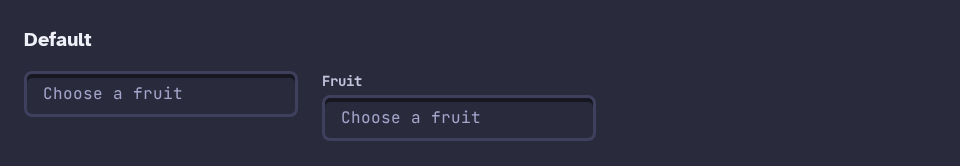
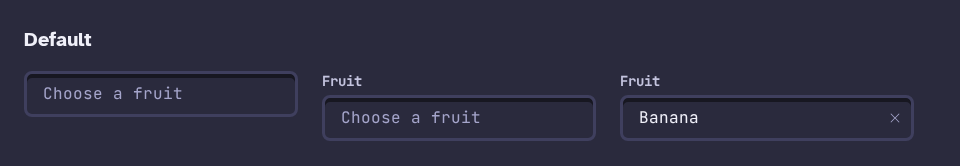
feat(ui): add clear button to AtCombobox
Clicking it resets modelValue back to empty via reka-ui's ComboboxCancel
primitive, which also owns resetting the internal search term/input display
and focusing the field back -- avoids re-deriving that behaviour by hand.

diff --git a/packages/ui/src/components/Combobox/AtCombobox.test.ts b/packages/ui/src/components/Combobox/AtCombobox.test.ts
@@ -1,7 +1,7 @@
 import { composeStories } from '@storybook/vue3-vite'
 import { render, screen } from '@testing-library/vue'
 import { userEvent } from 'vitest/browser'
-import { defineComponent, h, type PropType } from 'vue'
+import { defineComponent, h, type PropType, ref } from 'vue'
 import { expect, test } from 'vitest'
 import Combobox from './AtCombobox.vue'
 import * as stories from './AtCombobox.stories'
@@ -19,6 +19,26 @@ const WithSibling = defineComponent({
       h(Combobox, { options: props.options, 'aria-label': 'Fruit' }),
       h('button', 'Elsewhere'),
     ]),
+})
+
+// The clear button is gated on the component's own modelValue prop, not
+// reka-ui's internal (passive-mode) selection state -- exercising it needs a
+// real v-model round trip, unlike the other tests above which only assert on
+// emitted events or the DOM input's own display text.
+const WithModel = defineComponent({
+  props: {
+    options: { type: Array as PropType<{ value: string; label: string }[]>, required: true },
+  },
+  setup: (props) => {
+    const value = ref('')
+    return () =>
+      h(Combobox, {
+        options: props.options,
+        'aria-label': 'Fruit',
+        modelValue: value.value,
+        'onUpdate:modelValue': (v: string) => (value.value = v),
+      })
+  },
 })
 
 const { Snapshot } = composeStories(stories)
@@ -106,6 +126,33 @@ test('clicking the label opens the combobox', async () => {
   render(Combobox, { props: { options, label: 'Fruit' } })
   await userEvent.click(screen.getByText('Fruit'))
   expect(await screen.findByRole('option', { name: 'Banana' })).toBeInTheDocument()
+})
+
+// The clear (X) affordance only shows once a value is selected.
+test('does not show a clear button when no value is selected', () => {
+  render(Combobox, { props: { options }, attrs: { 'aria-label': 'Fruit' } })
+  expect(screen.queryByRole('button', { name: 'Clear' })).not.toBeInTheDocument()
+})
+
+test('shows a clear button once a value is selected', async () => {
+  render(WithModel, { props: { options } })
+  const input = screen.getByRole('combobox', { name: 'Fruit' })
+  await userEvent.click(input)
+  await userEvent.click(await screen.findByRole('option', { name: 'Banana' }))
+  expect(await screen.findByRole('button', { name: 'Clear' })).toBeInTheDocument()
+})
+
+// Clicking clear resets modelValue and the displayed text, closes the menu,
+// and does not leave a clear button behind (nothing selected any more).
+test('clicking clear resets modelValue and the input display', async () => {
+  render(WithModel, { props: { options } })
+  const input = screen.getByRole('combobox', { name: 'Fruit' })
+  await userEvent.click(input)
+  await userEvent.click(await screen.findByRole('option', { name: 'Banana' }))
+  await userEvent.click(await screen.findByRole('button', { name: 'Clear' }))
+  expect(input).toHaveValue('')
+  expect(screen.queryByRole('option', { name: 'Banana' })).not.toBeInTheDocument()
+  expect(screen.queryByRole('button', { name: 'Clear' })).not.toBeInTheDocument()
 })
 
 // The single visual snap for Combobox: the Snapshot story's board. Baseline:

diff --git a/packages/ui/src/components/Combobox/AtCombobox.vue b/packages/ui/src/components/Combobox/AtCombobox.vue
@@ -1,5 +1,7 @@
 <script setup lang="ts">
+import { PhX } from '@phosphor-icons/vue'
 import {
+  ComboboxCancel,
   ComboboxContent,
   ComboboxEmpty,
   ComboboxInput,
@@ -13,6 +15,7 @@ import type { Size } from '../../composables/useFieldChrome'
 import { useFieldChrome } from '../../composables/useFieldChrome'
 import { FIELD_SIZES } from '../../constants/fieldSizes'
 import FieldLabel from '../Field/FieldLabel.vue'
+import Icon from '../Icon/AtIcon.vue'
 
 const props = withDefaults(
   defineProps<{
@@ -51,6 +54,12 @@ const modelValue = computed({
 })
 
 const open = ref(false)
+
+// ComboboxCancel (reka-ui) already resets the internal search term and
+// input display -- we only need to clear our own v-model on top of it.
+const onClear = () => {
+  modelValue.value = ''
+}
 
 // ComboboxInput opens on pointerdown via open-on-click, not the native
 // label-for click-forwarding a <label> gives an <input> -- same gotcha
@@ -91,6 +100,15 @@ const itemPosition = (index: number, length: number) => [
 
 const displayValue = (value: unknown) =>
   props.options.find((option) => option.value === value)?.label ?? ''
+
+// The clear button occupies the same right-side slot AtSelect's caret sits
+// in -- reserve room in the input's own padding so typed text never runs
+// under it.
+const clearPadding: Record<Size, string> = {
+  sm: 'pr-8',
+  md: 'pr-9',
+  lg: 'pr-10',
+}
 </script>
 
 <template>
@@ -100,14 +118,24 @@ const displayValue = (value: unknown) =>
     }}</FieldLabel>
 
     <div ref="groupEl" class="flex items-stretch rounded-md">
-      <ComboboxRoot v-model="modelValue" v-model:open="open" class="flex-1" open-on-click>
+      <ComboboxRoot v-model="modelValue" v-model:open="open" class="relative flex-1" open-on-click>
         <ComboboxInput
           :id="fieldId"
           :display-value="displayValue"
           :placeholder="placeholder"
-          :class="[trigger, triggerClasses[size]]"
+          :class="[trigger, triggerClasses[size], modelValue && clearPadding[size]]"
           v-bind="$attrs"
         />
+
+        <ComboboxCancel
+          v-if="modelValue"
+          data-testid="combobox-clear"
+          aria-label="Clear"
+          class="absolute inset-y-0 right-0 flex items-center px-3 text-fg-subtle outline-none hover:opacity-75 cursor-pointer focus-visible:outline-2 focus-visible:outline-offset-1 focus-visible:outline-border-focus"
+          @click="onClear"
+        >
+          <Icon :icon="PhX" size="sm" />
+        </ComboboxCancel>
 
         <ComboboxPortal>
           <ComboboxContent

diff --git a/packages/ui/src/components/Combobox/AtCombobox.stories.ts b/packages/ui/src/components/Combobox/AtCombobox.stories.ts
@@ -42,6 +42,17 @@ export const WithLabel: Story = {
   }),
 }
 
+// A pre-selected field: the clear (X) button shows next to a selected value,
+// and resets modelValue back to empty/placeholder when clicked.
+export const WithSelection: Story = {
+  render: () => ({
+    components: { Combobox },
+    setup: () => ({ fruits }),
+    template:
+      '<Combobox label="Fruit" model-value="banana" :options="fruits" placeholder="Choose a fruit" class="w-80" />',
+  }),
+}
+
 // A bare field: no label. Accessible name comes from a forwarded aria-label.
 export const Bare: Story = {
   render: () => ({
@@ -64,6 +75,7 @@ export const Snapshot: Story = {
           <div class="flex flex-wrap items-start gap-6">
             <Combobox aria-label="Fruit" :options="fruits" placeholder="Choose a fruit" class="w-72" />
             <Combobox label="Fruit" :options="fruits" placeholder="Choose a fruit" class="w-72" />
+            <Combobox label="Fruit" model-value="banana" :options="fruits" placeholder="Choose a fruit" class="w-72" />
           </div>
         </section>
       </div>
